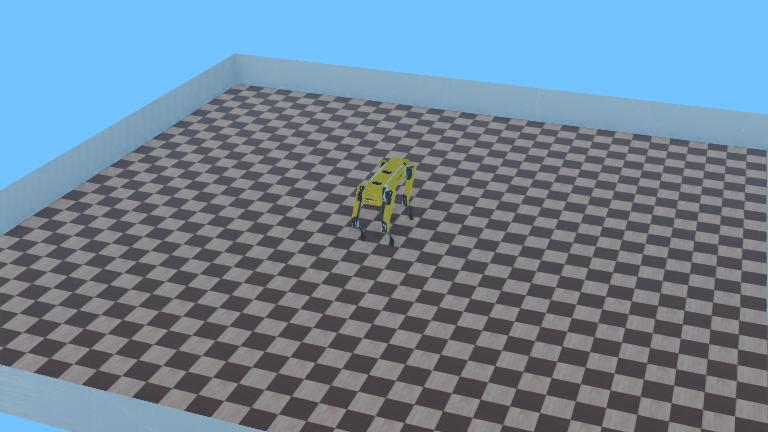
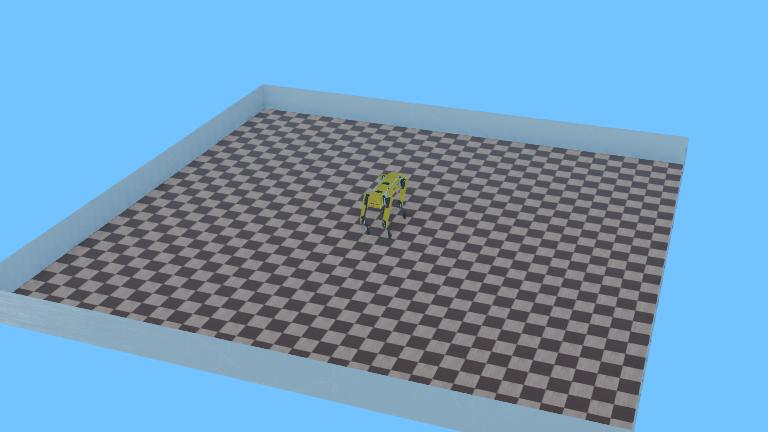
Model training improved, with a test controller implemented, NOTE: Requirements need update, and the reward is still not done

diff --git a/controllers/test_model/test_model.py b/controllers/test_model/test_model.py
@@ -1,24 +1,32 @@
+import os
+from pathlib import Path
+
 from stable_baselines3 import PPO
 from spot_env import SpotEnv
 
 env = SpotEnv()
 
-model = PPO.load(
-    "ppo_spot_test"
-)
+CURRENT_DIR = Path(__file__).resolve().parent
+os.chdir(CURRENT_DIR)
 
-obs, info = env.reset()
+if os.path.exists("../main/ppo_spot.zip"):
+    model = PPO.load("../main/ppo_spot")
 
-while True:
+    obs, info = env.reset()
 
-    action, _ = model.predict(
-        obs,
-        deterministic=True
-    )
+    while True:
 
-    obs, reward, terminated, truncated, info = (
-        env.step(action)
-    )
+        action, _ = model.predict(
+            obs,
+            deterministic=True
+        )
 
-    if terminated or truncated:
-        obs, info = env.reset()
+        obs, reward, terminated, truncated, info = (
+            env.step(action)
+        )
+
+        if terminated or truncated:
+            obs, info = env.reset()
+
+else:
+    print("Model not found.")

diff --git a/controllers/main/main.py b/controllers/main/main.py
@@ -1,21 +1,31 @@
+import os
+from pathlib import Path
+
 from spot_env import SpotEnv
 
 from stable_baselines3 import PPO
 from stable_baselines3.common.monitor import Monitor
 
 
-env = SpotEnv()
+MODEL_PATH = "ppo_spot"
 
+env = SpotEnv()
 env = Monitor(env)
 
-model = PPO(
-    "MlpPolicy",
-    env,
-    verbose=1
-)
+total_timesteps = 100_000
 
-model.learn(
-    total_timesteps=10_000
-)
+if os.path.exists(MODEL_PATH + ".zip"):
 
-model.save("ppo_spot_test")
+    print("Modelo encontrado. Continuando treinamento...")
+    model = PPO.load(MODEL_PATH, env=env)
+
+else:
+
+    print("Nenhum modelo encontrado. Criando novo PPO...")
+    model = PPO("MlpPolicy", env, verbose=1)
+
+
+model.learn(total_timesteps, reset_num_timesteps=False)
+
+model.save(MODEL_PATH)
+print("Modelo salvo!")
